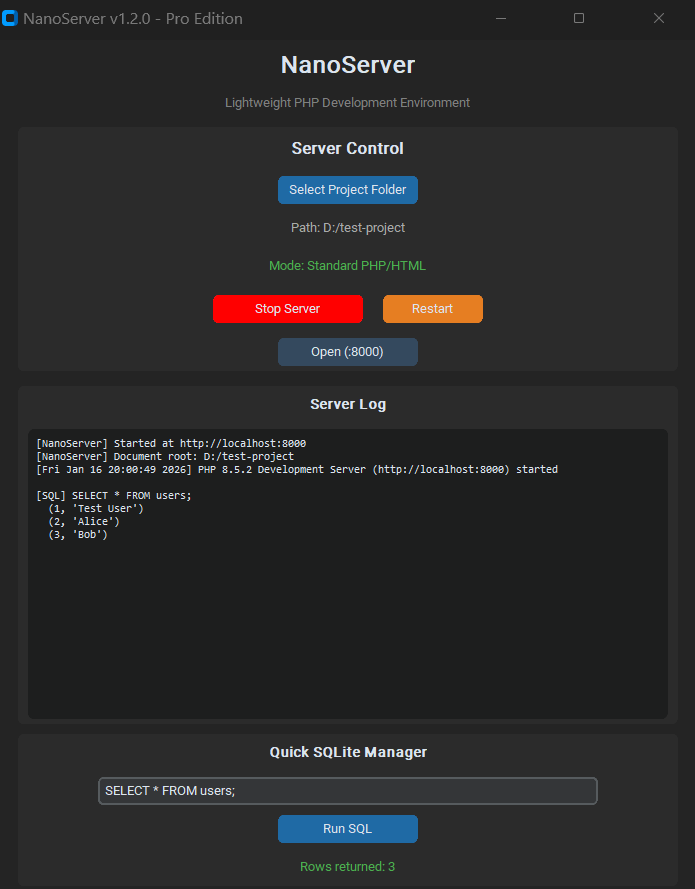
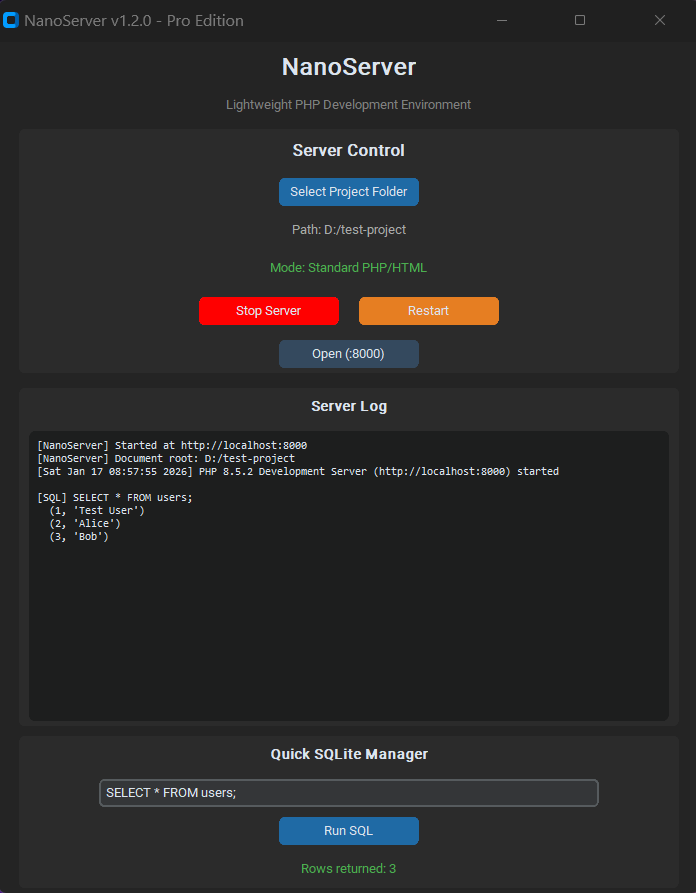
Fix button sizes, add design system docs, update screenshot

diff --git a/nanoserver.py b/nanoserver.py
@@ -120,7 +120,7 @@ class NanoServerApp(ctk.CTk):
             fg_color="green",
             hover_color="darkgreen",
             command=self.toggle_server,
-            width=150
+            width=140
         )
         self.btn_toggle.pack(side="left", padx=10)
         
@@ -130,7 +130,7 @@ class NanoServerApp(ctk.CTk):
             fg_color="#e67e22",
             hover_color="#d35400",
             command=self.restart_server,
-            width=100,
+            width=140,
             state="disabled"
         )
         self.btn_restart.pack(side="left", padx=10)

diff --git a/DESIGN_SYSTEM.md b/DESIGN_SYSTEM.md
@@ -1,0 +1,134 @@
+# Nano Design System
+
+A reusable design system for lightweight "Nano" desktop applications using CustomTkinter.
+
+## Color Palette
+
+### Primary Colors
+| Name | Hex | Usage |
+|------|-----|-------|
+| Success Green | `#4caf50` | Start buttons, positive status |
+| Danger Red | `red` / `darkred` | Stop buttons, errors |
+| Warning Orange | `#e67e22` / `#d35400` | Restart, caution actions |
+| Neutral Gray | `#34495e` | Secondary buttons |
+| Laravel Red | `#ff2d20` | Laravel detection |
+| Error Red | `#e74c3c` | Error messages |
+
+### Text Colors
+| Name | Hex | Usage |
+|------|-----|-------|
+| Muted | `gray` | Subtitles, descriptions |
+| Light Gray | `#aaaaaa` | Secondary text, paths |
+
+## Typography
+
+| Element | Font | Size | Weight |
+|---------|------|------|--------|
+| Title | Roboto | 24 | Bold |
+| Section Header | Roboto | 16 | Bold |
+| Subsection | Roboto | 14 | Bold |
+| Log Text | Consolas | 11 | Normal |
+
+## Layout Guidelines
+
+### Window
+```python
+geometry = "700x780"
+minsize = (600, 700)
+resizable = True
+```
+
+### Spacing
+- Section padding: `pady=10, padx=20`
+- Element padding: `pady=5`
+- Button padding: `padx=10`
+
+### Button Sizes
+- Primary actions: `width=140`
+- Full-width buttons: use default (fills container)
+
+## Components
+
+### Section Frame
+```python
+frame = ctk.CTkFrame(parent)
+frame.pack(pady=10, padx=20, fill="x")
+
+label = ctk.CTkLabel(
+    frame, 
+    text="Section Title",
+    font=("Roboto", 16, "bold")
+)
+label.pack(pady=8)
+```
+
+### Primary Button (Start/Positive)
+```python
+btn = ctk.CTkButton(
+    parent,
+    text="Start",
+    fg_color="green",
+    hover_color="darkgreen",
+    width=140
+)
+```
+
+### Danger Button (Stop/Negative)
+```python
+btn = ctk.CTkButton(
+    parent,
+    text="Stop",
+    fg_color="red",
+    hover_color="darkred",
+    width=140
+)
+```
+
+### Warning Button (Restart/Caution)
+```python
+btn = ctk.CTkButton(
+    parent,
+    text="Restart",
+    fg_color="#e67e22",
+    hover_color="#d35400",
+    width=140
+)
+```
+
+### Log Display
+```python
+textbox = ctk.CTkTextbox(
+    parent,
+    height=120,
+    font=("Consolas", 11),
+    state="disabled"
+)
+```
+
+### Input Field with Enter Support
+```python
+entry = ctk.CTkEntry(
+    parent,
+    placeholder_text="Enter value...",
+    width=500
+)
+entry.bind("<Return>", lambda e: on_submit())
+```
+
+## Appearance Mode
+
+```python
+import customtkinter as ctk
+ctk.set_appearance_mode("Dark")
+ctk.set_default_color_theme("blue")
+```
+
+---
+
+## Future Nano Products Ideas
+
+- **NanoNotes** - Lightweight Markdown note-taking
+- **NanoAPI** - Simple REST API testing tool
+- **NanoSSH** - Basic SSH client
+- **NanoGit** - Simple Git GUI
+- **NanoTimer** - Pomodoro/productivity timer
